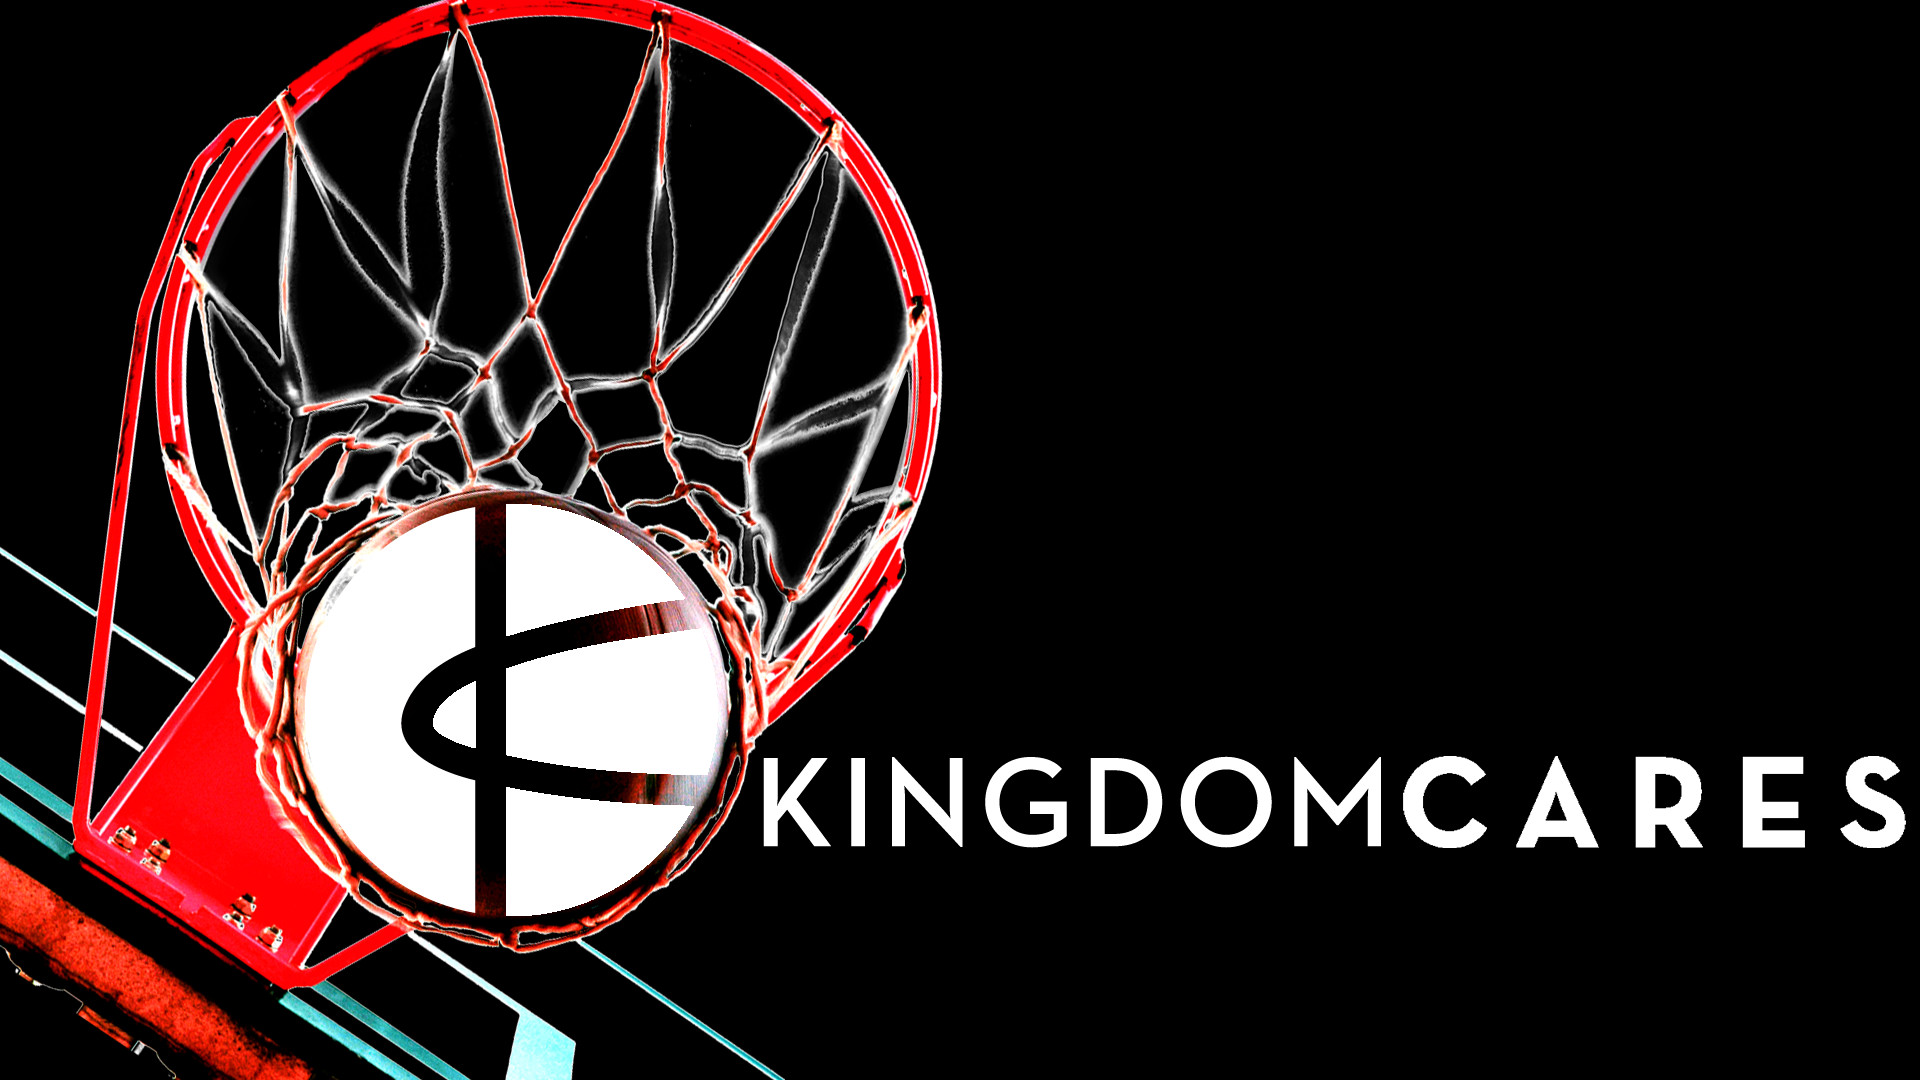
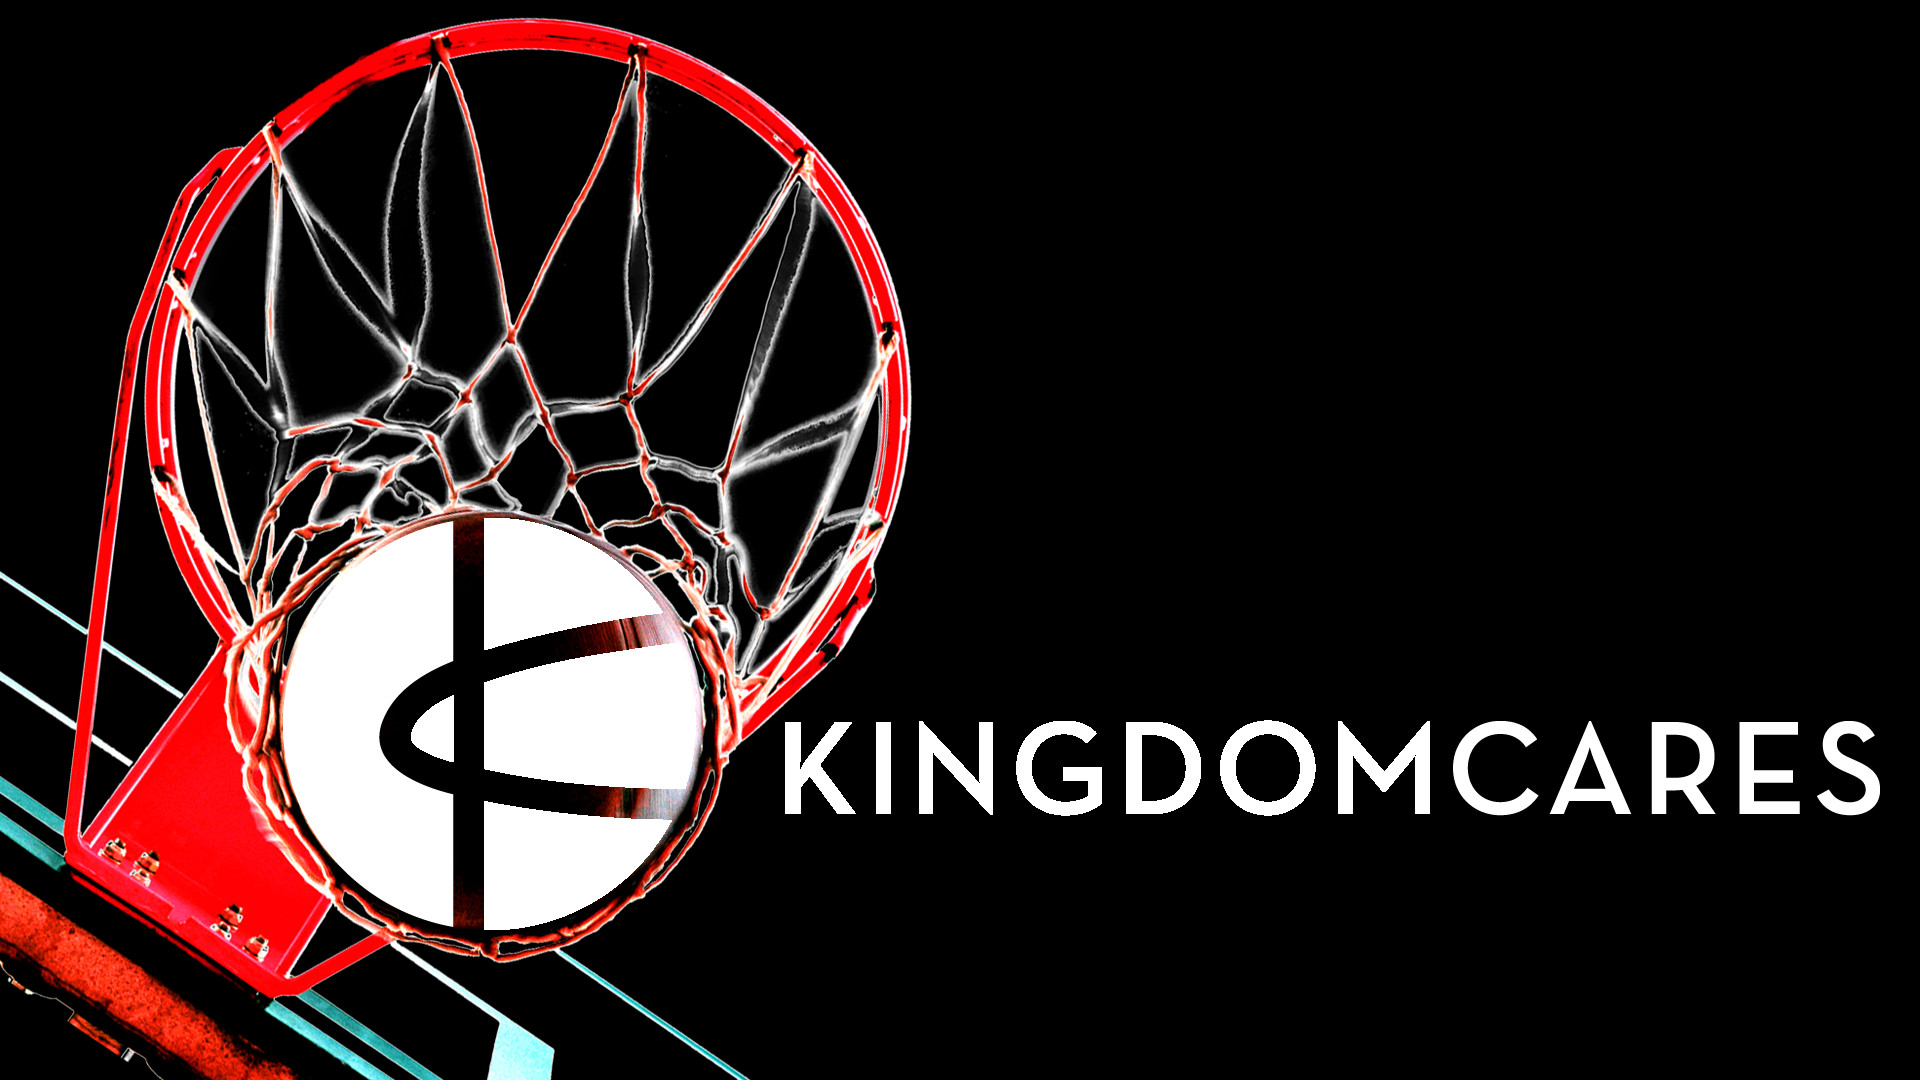
uploaded img; dialed in header

Changed region(s): [[0.0, 0.0, 1.0, 1.0]]

diff --git a/_site/css/creative.css b/_site/css/creative.css
@@ -181,7 +181,11 @@ aside {
 }
 
 header.carousel {
-    height: 75%;
+    height: 65%;
+}
+
+.carousel-control {
+	opacity: .0;
 }
 
 .carousel,
@@ -199,11 +203,11 @@ header.carousel {
 .fill {
     width: 100%;
     height: 100%;
-    background-position: 50% 100%;
-    -webkit-background-size: contain;
-    -moz-background-size: contain;
-    background-size: contain;
-    -o-background-size: contain;
+    background-position: 50% 50%;
+    -webkit-background-size: 100% auto;
+    -moz-background-size: 100% auto;
+    background-size: 100% auto;
+    -o-background-size: 100% auto;
     background-repeat:no-repeat;
 }
 
@@ -213,7 +217,7 @@ header {
     width: 100%;
     min-height: auto;
     
-    background-color: #000;
+    background-color: #fff;
    
 }
 
@@ -243,9 +247,11 @@ header .header-content .header-content-inner p {
 }
 
 @media(min-width:768px) {
-    header {
-        min-height: 100%;
-    }
+   
+
+header.carousel {
+    height: 80%;
+}
 
     header .header-content {
         position: absolute;

diff --git a/css/creative.css b/css/creative.css
@@ -181,7 +181,11 @@ aside {
 }
 
 header.carousel {
-    height: 75%;
+    height: 65%;
+}
+
+.carousel-control {
+	opacity: .0;
 }
 
 .carousel,
@@ -199,11 +203,11 @@ header.carousel {
 .fill {
     width: 100%;
     height: 100%;
-    background-position: 50% 100%;
-    -webkit-background-size: contain;
-    -moz-background-size: contain;
-    background-size: contain;
-    -o-background-size: contain;
+    background-position: 50% 50%;
+    -webkit-background-size: 100% auto;
+    -moz-background-size: 100% auto;
+    background-size: 100% auto;
+    -o-background-size: 100% auto;
     background-repeat:no-repeat;
 }
 
@@ -213,7 +217,7 @@ header {
     width: 100%;
     min-height: auto;
     
-    background-color: #000;
+    background-color: #fff;
    
 }
 
@@ -243,9 +247,11 @@ header .header-content .header-content-inner p {
 }
 
 @media(min-width:768px) {
-    header {
-        min-height: 100%;
-    }
+   
+
+header.carousel {
+    height: 80%;
+}
 
     header .header-content {
         position: absolute;

diff --git a/_site/index.html b/_site/index.html
@@ -9,7 +9,7 @@
     <meta name="description" content="">
     <meta name="author" content="">
 
-    <title>Creative - Start Bootstrap Theme</title>
+    <title>Kingdom Cares</title>
 
     <!-- Bootstrap Core CSS -->
     <link rel="stylesheet" href="css/bootstrap.min.css" type="text/css">
@@ -103,7 +103,7 @@
                 </div>
             </div>
             <div class="item">
-                <div class="fill" style="background-image:url('');"></div>
+                <div class="fill 1" style="background-image:url('https://rustyhutchison.github.io/img/kc-main-header.jpg');"></div>
                 <div class="carousel-caption">
                     <h2></h2>
                 </div>

diff --git a/index.html b/index.html
@@ -9,7 +9,7 @@
     <meta name="description" content="">
     <meta name="author" content="">
 
-    <title>Creative - Start Bootstrap Theme</title>
+    <title>Kingdom Cares</title>
 
     <!-- Bootstrap Core CSS -->
     <link rel="stylesheet" href="css/bootstrap.min.css" type="text/css">
@@ -103,7 +103,7 @@
                 </div>
             </div>
             <div class="item">
-                <div class="fill" style="background-image:url('');"></div>
+                <div class="fill 1" style="background-image:url('https://rustyhutchison.github.io/img/kc-main-header.jpg');"></div>
                 <div class="carousel-caption">
                     <h2></h2>
                 </div>
